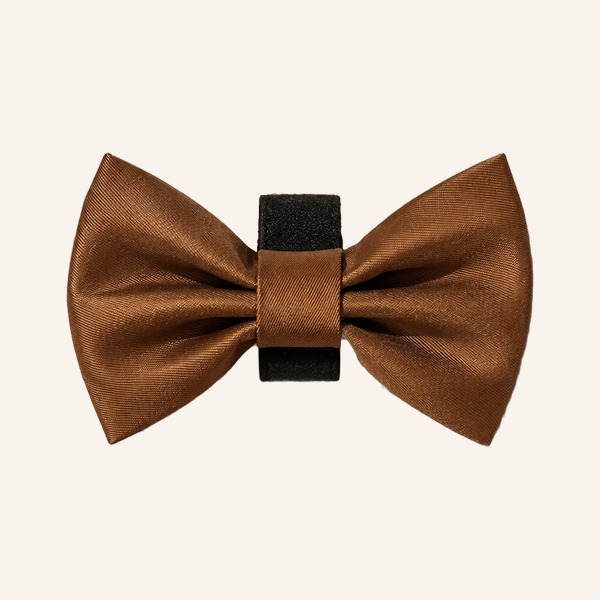
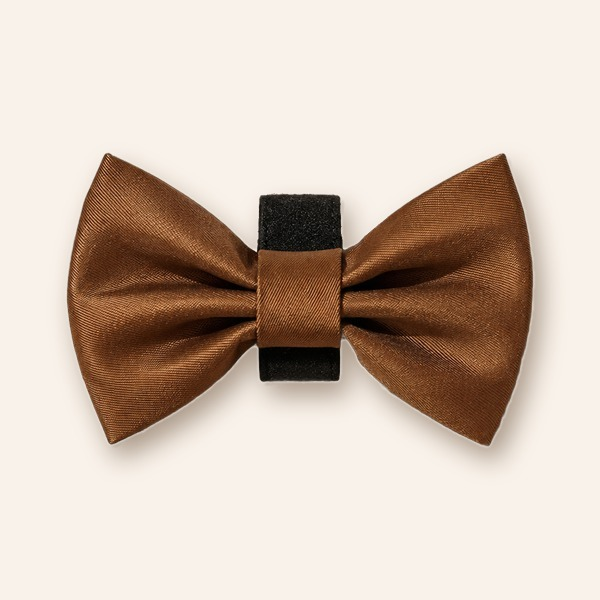
sanzo-web: gorra y piluso en grande sin fondo (con sus detalles) y sombrita en el moño
Claude-Session: https://claude.ai/code/session_018yvVXcrmKC3MgyRVb3qLBt

diff --git a/sanzo-web/MEJORAS.md b/sanzo-web/MEJORAS.md
@@ -440,3 +440,5 @@ Parche de cuerina recortado y grabado con láser, pegado (liso). Todo editable e
 - El kit completo ya no tiene envío gratis (`kit.envioGratis: false`); armarlo con piezas sueltas tampoco. El envío se cobra por zona como en todo lo demás.
 - Fuera los textos que lo prometían: barra superior (vacía = no se muestra), FAQ, descripción del sitio y README.
 - Personalizador con "Tu imagen": el parche ahora es un círculo que sigue el del "Tu imagen" (antes quedaba con la forma y medida que tenía con nombre). Proporción 1:1, solo se elige el ancho. Al volver a "Su nombre" vuelve la forma de antes.
+- Gorra y piluso: al tocar el círculo, en grande se ve la foto sin fondo (antes salía la de la sábana), con sus puntitos (`gorra-circulo`, `piluso-circulo` en `data/detalles.json`).
+- Moño: el círculo tiene la sombrita suave de las demás piezas.
